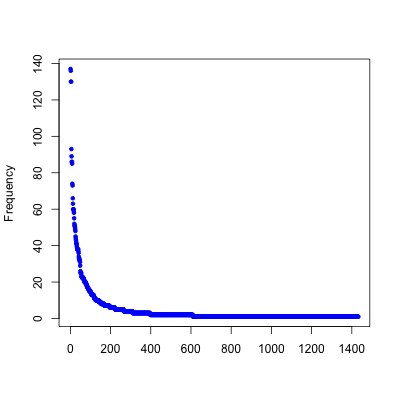
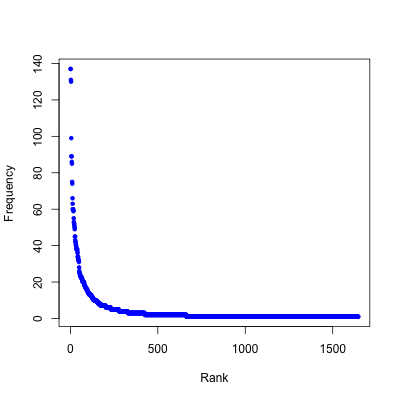
Notes on statistical background

diff --git a/web/statistics.html b/web/statistics.html
@@ -245,26 +245,36 @@
         </pre>
       </p>
       <p>
-        You can make a plot of data in R using the <code>plot()</code> function, as shown below.
+        Data can be plotted in R using the <code>plot()</code> function, as shown below.
       </p>
       <p class='formula'>
         <pre>
           &gt; x &lt;- seq(1, length(unigram$frequency))
-          &gt; plot(x, unigram$frequency, xlab="", ylab="Frequency", pch=20, col="blue")
+          &gt; plot(x, unigram$frequency, xlab="Rank", ylab="Frequency", pch=20, col="blue")
         </pre>
       </p>
       <p>
         The <code>seq()</code> function generates a sequence of integers so that the frequency
         of each word will be plotted from most frequent at the left to least frequent at the right. 
-        The <code>type="n"</code> parameter of the <code>plot()</code> function defers plotting of the points 
-        to the next line where the <code>points()</code> function plots the points with symbol 20 and blue color.
-        There are so many words that we cannot show the text for each one but it 
-        is informative to see the general shape of the word frequency distribution.
-        The image generated is shown in Figure 1.
+        The resulting plot is the word frequency versus rank, shown in Figure 1.
       </p>
       <p class='picture'>
         <img src="images/unigram_frequency.png"/><br/>
-        Figure 1: Word Frequency in the unigram Data Frame
+        Figure 1: Word Frequency versus Rank
+      </p>
+      <p>
+        The plot in Figure is informative in that it shows that only a handful of words have a high frequency
+        and the vast majority is a long tail with frequency 1.
+        This is a phenomenon in word frequencies for natural language in general.
+        (Manning </i>Foundations of Statistical Natural Language Processing. Cambridge</i>, 23-27)
+        An early model for the relation between word frequency and rank is <strong>Zipf's law</strong> that states 
+        that word frequency f is inversely proportional to rank r.
+      </p>
+      <p class='formula'>
+        f ∝ 1/r
+      </p>
+      <p>
+        (Manning </i>Foundations of Statistical Natural Language Processing. Cambridge</i>, 24)
       </p>
       <p>
         To generate an image file for that plot and the others in this page, pull the project from GitHub, 
@@ -2239,6 +2249,9 @@
         </li>
         <li>
           Pulleyblank, Edwin G. <i>Outline of Classical Chinese Grammar</i>. Vancouver: UBC Press, 1995.
+        </li>
+        <li>
+          Manning, Christopher D. </i>Foundations of Statistical Natural Language Processing. Cambridge</i>, Mass: MIT Press, 1999.
         </li>
         <li>
           Yau, Chi. <i>R Tutorial with Bayesian Statistics Using OpenBUGS</i>. Self, 2014. 
